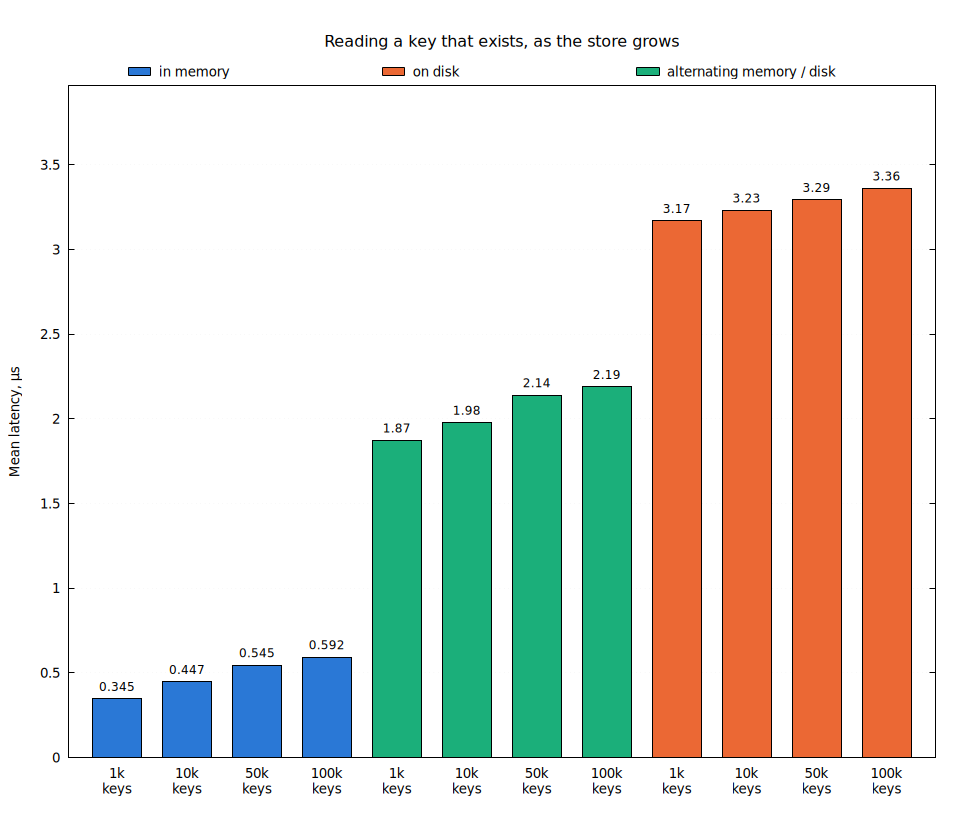
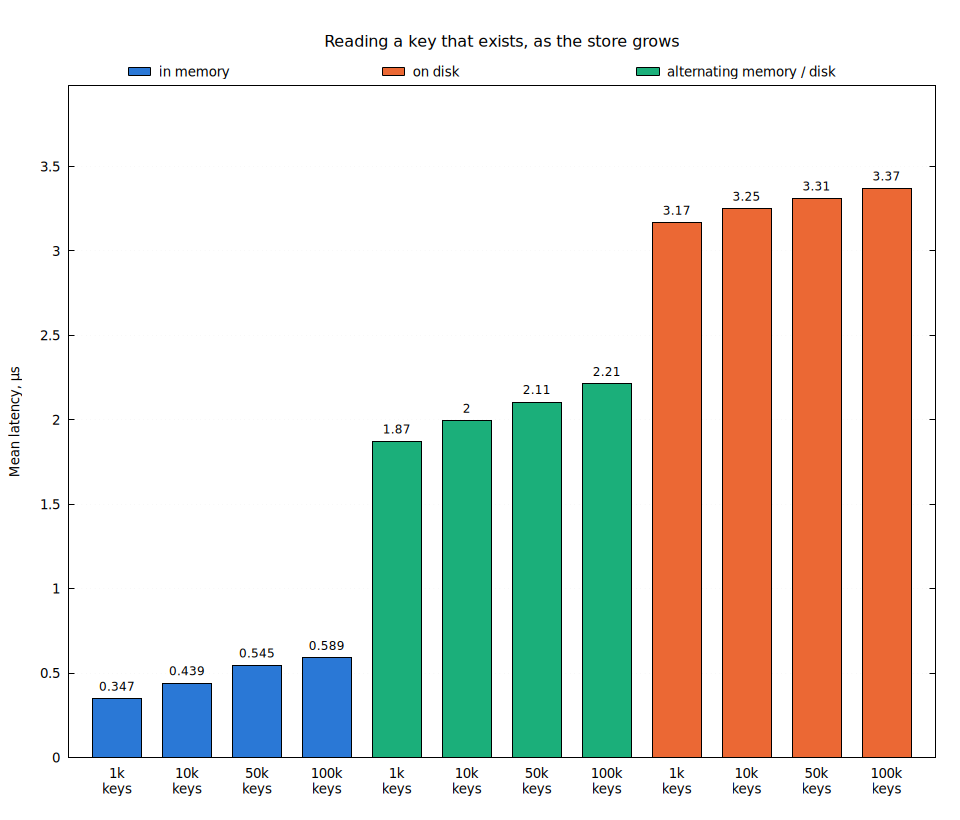
Re-measure the benchmark report on this branch
Full run_report.sh at 3bd0710 (2026-10-01), with the WAL suite re-run
after the append-bench fix. Every quoted figure and chart is updated.
No engine path regressed: writes are within 2.5% of main, reads, scans,
lookups and predicates within 6%, and a same-boot A/B against main shows
semantic search and typed range unchanged.

Also correct the selectivity example: status = 'active' AND active = true
matches 12% of rows (6% with age >= 50), as the bench cases are labelled,
not 25% / 12%.

diff --git a/minnal_db/benchmark.md b/minnal_db/benchmark.md
@@ -20,8 +20,8 @@ to other hardware much better than the raw microseconds do.
 | A semantic search over 5,000 documents | 1.3–3.7 ms, excluding the embedding call | [Semantic search](#semantic-search) |
 
 The one number that shapes everything else: **a write costs 2.3 ms because it
-waits for the disk to confirm the data is safe** (an fsync). The rest of the
-write path costs about 1.5 µs. That is a deliberate choice — a write that
+waits for the disk to confirm the data is safe** (an fsync). The WAL append
+itself, without the fsync, takes 0.4 µs. That is a deliberate choice — a write that
 returns has survived a power cut — and it caps the database at about 440 writes
 per second on this drive. Adding writer threads does not raise that ceiling,
 because writes fsync one at a time.
@@ -50,8 +50,8 @@ because writes fsync one at a time.
 | Machine | AMD Ryzen 9 9950X3D (16 cores), 96 GB RAM, NVMe SSD, bare metal |
 | OS | Ubuntu 26.04, Linux 7.0.0-34 |
 | Rust | 1.96.0 |
-| Code | commit `e5d15c9`; the typed and semantic-search suites re-run on 2026-09-27 |
-| Date | 2026-09-26 (typed and semantic search: 2026-09-27) |
+| Code | commit `3bd0710`; the WAL suite with `benches/bench_wal.rs` as committed alongside this report |
+| Date | 2026-10-01 |
 
 To reproduce everything, including the charts:
 
@@ -83,35 +83,36 @@ a write's cost is the drive's fsync time, and value size hardly matters:
 
 ![Durable write latency by value size](docs/benchmarks/write.png)
 
-A 64 KiB value is 512 times the data of a 128-byte one and costs 2.8% more
-(2.336 ms against 2.272 ms).
+A 64 KiB value is 512 times the data of a 128-byte one and costs 3.2% more
+(2.359 ms against 2.286 ms).
 
 The chart below shows what the fsync costs on its own. It times a single WAL
 append with and without the sync. Synced, an append takes 2.3 ms. Without the
-sync it takes 1.6 µs — the fsync is about 1,500 times everything else the
-append does. Only in the unsynced case does value size show up at all: 1.6 µs at
-128 bytes, 2.5 µs at 4 KiB, 10.3 µs at 64 KiB.
+sync it takes 0.39 µs — the fsync is about 6,000 times everything else the
+append does. Only in the unsynced case does value size show up at all: 0.39 µs
+at 128 bytes, 1.0 µs at 4 KiB, 7.8 µs at 64 KiB. Both cases append to a WAL
+file that already exists, as production does; creating the file is not timed.
 
 ![A WAL append with and without the fsync](docs/benchmarks/wal_fsync.png)
 
-*Log scale: the synced bars are about 1,000 times taller than the unsynced
+*Log scale: the synced bars are 300 to 6,000 times taller than the unsynced
 ones. Production writes always sync; the unsynced case exists only to measure
 the rest of the path.*
 
 Other write-path measurements:
 
-- **The full `put`** (WAL, value log and memtable together) measures 2.277 ms.
+- **The full `put`** (WAL, value log and memtable together) measures 2.292 ms.
   That is within noise of the WAL append alone, so the value-log write and
   memtable insert are too small to see next to the fsync.
 - **Namespaces cost nothing.** Writing to the default namespace and to a named
-  one both measure 2.29 ms.
+  one measure 2.27 and 2.30 ms, within noise.
 - **Mixed read/write workloads cost the same as pure writes.** With 80% or 50%
-  reads, from memory or from disk, every case lands between 2.26 and 2.31 ms per
+  reads, from memory or from disk, every case lands between 2.25 and 2.30 ms per
   operation. A read costs a few microseconds against a write's 2.3 ms, so the
   writes set the average.
-- **Encoding a WAL entry** takes 43 ns (128 B) to 0.97 µs (64 KiB), and decoding
+- **Encoding a WAL entry** takes 42 ns (128 B) to 1.1 µs (64 KiB), and decoding
   it 14 ns to 0.54 µs.
-- **Replaying the WAL after a crash** reads about 3.8 million small entries per
+- **Replaying the WAL after a crash** reads about 3.9 million small entries per
   second (1,000 entries of 128 bytes in 0.26 ms), and 2.7 million per second at
   4 KiB.
 
@@ -126,25 +127,25 @@ write latency:
 
 | Extra work `merge` does | Mean |
 |---|---:|
-| Reading the current value (a 2 KiB `get` from memory) | 435 ns |
-| Taking the per-key lock (hash plus uncontended lock) | 51 ns |
-| The closure: increment a counter | 9.7 ns |
-| The closure: insert into a 2 KiB sorted set | 170 ns |
+| Reading the current value (a 2 KiB `get` from memory) | 433 ns |
+| Taking the per-key lock (hash plus uncontended lock) | 48 ns |
+| The closure: increment a counter | 9.9 ns |
+| The closure: insert into a 2 KiB sorted set | 175 ns |
 
 That adds up to 0.5–0.7 µs, about 0.03% of the fsync. The full operations,
 measured directly, cannot tell merge and put apart:
 
 | Operation | Mean |
 |---|---:|
-| `put`, 2 KiB | 2.329 ms |
-| `delete`, 2 KiB | 2.311 ms |
-| `get` then `put` by hand, 2 KiB sorted set (no atomicity) | 2.284 ms |
-| `merge`, 2 KiB sorted set | 2.283 ms |
-| `put`, 8 B | 2.265 ms |
-| `merge`, 8 B counter | 2.264 ms |
+| `put`, 2 KiB | 2.323 ms |
+| `delete`, 2 KiB | 2.294 ms |
+| `get` then `put` by hand, 2 KiB sorted set (no atomicity) | 2.286 ms |
+| `merge`, 2 KiB sorted set | 2.307 ms |
+| `put`, 8 B | 2.308 ms |
+| `merge`, 8 B counter | 2.278 ms |
 
 In this table `merge` measures slightly *faster* than `put`, which cannot be
-real: a merge is a put plus extra work. That tells you the 3% spread between
+real: a merge is a put plus extra work. That tells you the 2% spread between
 these rows is noise, and it is why the extra work is timed separately above.
 The practical conclusion: the atomicity of `merge` is free. It stays as cheap as
 a `put` unless your closure does something expensive.
@@ -152,7 +153,7 @@ a `put` unless your closure does something expensive.
 ## Reads
 
 Reading a key from memory takes well under a microsecond. Reading the same key
-from disk adds about 2.8 µs: the check against the file's bloom filter, a
+from disk adds about 2.9 µs: the check against the file's bloom filter, a
 search of its index, and the read from the value log. That step is constant for
 small and medium values. At 64 KiB the value itself becomes big enough to add
 time on both tiers.
@@ -175,7 +176,7 @@ A read from disk barely slows as the store grows: 3.17 µs at 1,000 keys and
 3.36 µs at 100,000, 6% more for 100 times the keys. The on-disk lookup
 first rules files out by key range and bloom filter, then searches only a small
 bounded section of the file, so its work does not grow with file size. A read
-from memory rises 71% over the same range (0.35 to 0.59 µs), because the
+from memory rises 70% over the same range (0.35 to 0.59 µs), because the
 in-memory table is a skip list whose search deepens as it grows. Memory is
 still 6–9 times faster.
 
@@ -186,35 +187,35 @@ may cost cache locality.
 
 ![Reading a key that does not exist, as the store grows](docs/benchmarks/lookup_misses.png)
 
-For a missing key the order flips: **disk is 2.5 to 3 times faster than
+For a missing key the order flips: **disk is 2.5 to 3.2 times faster than
 memory**. On disk, a bloom filter usually proves a key is absent without reading
 anything else, so a miss stays at about 0.2 µs at any store size. The in-memory
 table has no such filter. To prove a key is absent it walks the skip list just as
 far as it would to find one. So an in-memory miss costs about what an in-memory
-hit does, and grows the same way (0.48 to 0.67 µs).
+hit does, and grows the same way (0.48 to 0.69 µs).
 
 ## Scans
 
 Four ways to read many keys at once, each measured in memory and on disk. On
-disk, a scan costs 1.1 to 1.6 times the in-memory scan. The ratio shrinks as
+disk, a scan costs 1.1 to 1.7 times the in-memory scan. The ratio shrinks as
 the result grows, because most of the on-disk extra is a fixed setup cost per
 scan.
 
 ![Prefix scan by number of matching keys](docs/benchmarks/scan_prefix.png)
 
 *Prefix scan: all keys starting with a given prefix, returned with their
-values. On disk costs 1.51x memory at 100 keys and 1.21x at 5,000. Keys are 128
-bytes here; 32-byte keys measure within 2% of these.*
+values. On disk costs 1.61x memory at 100 keys and 1.19x at 5,000. Keys are 128
+bytes here; 32-byte keys measure within 5% of these.*
 
 ![Range scan by number of results](docs/benchmarks/scan_range.png)
 
 *Range scan: all keys between a start and end key, from a store of 2,000. On
-disk costs 1.57x memory at 100 results and 1.31x at 1,000.*
+disk costs 1.66x memory at 100 results and 1.35x at 1,000.*
 
 ![Reading all keys with their values](docs/benchmarks/scan_iter.png)
 
-*Reading all 2,000 keys with their values. On disk costs 1.41x memory with
-128-byte values and 1.09x with 4 KiB values. The larger the values, the more of
+*Reading all 2,000 keys with their values. On disk costs 1.36x memory with
+128-byte values and 1.12x with 4 KiB values. The larger the values, the more of
 the time goes into reading them from the value log. That cost is the same on
 both tiers.*
 
@@ -224,7 +225,7 @@ both tiers.*
 256-byte values. This is how the REST API's list endpoints read.*
 
 Cursor pagination is the one scan where the tiers swap. At 100 keys per page,
-disk (75 µs) is almost twice as fast as memory (144 µs). At 500 per page they are level, and at
+disk (72 µs) is almost twice as fast as memory (143 µs). At 500 per page they are close (267 µs on disk, 242 µs in memory), and at
 1,000 (the whole store) disk is slower, as expected. We have not established why
 small pages favour disk.
 
@@ -242,32 +243,32 @@ it adds nothing measurable:
 
 | Operation | Raw bytes | Typed |
 |---|---:|---:|
-| `put`, 128 B | 2.272 ms | 2.296 ms |
-| `put`, 4 KiB | 2.293 ms | 2.326 ms |
-| `get` from memory, 128 B | 0.37 µs | 0.33 µs |
-| `get` from disk, 128 B | 3.22 µs | 3.11 µs |
-| `get` from disk, 4 KiB | 3.37 µs | 3.32 µs |
+| `put`, 128 B | 2.286 ms | 2.272 ms |
+| `put`, 4 KiB | 2.317 ms | 2.283 ms |
+| `get` from memory, 128 B | 0.37 µs | 0.32 µs |
+| `get` from disk, 128 B | 3.25 µs | 3.10 µs |
+| `get` from disk, 4 KiB | 3.42 µs | 3.39 µs |
 
-The typed reads come out slightly faster than the raw ones. That is within the
-noise for sub-microsecond cases, not a real speed-up.
+The typed rows come out slightly faster than the raw ones. That is within the
+noise, not a real speed-up.
 
 Scans cost more typed, because every returned pair is deserialised:
 
 | Scan | Raw bytes | Typed | Extra |
 |---|---:|---:|---:|
-| range, 100 results, in memory | 54 µs | 57 µs | +6% |
-| range, 1,000 results, in memory | 353 µs | 383 µs | +8% |
-| range, 100 results, on disk | 84 µs | 89 µs | +5% |
-| range, 1,000 results, on disk | 463 µs | 468 µs | +1% |
-| prefix, 100 keys, in memory | 49 µs | 57 µs | +15% |
-| prefix, 1,000 keys, in memory | 290 µs | 362 µs | +25% |
-| prefix, 100 keys, on disk | 74 µs | 85 µs | +15% |
-| prefix, 1,000 keys, on disk | 406 µs | 466 µs | +15% |
+| range, 100 results, in memory | 52 µs | 56 µs | +7% |
+| range, 1,000 results, in memory | 338 µs | 364 µs | +8% |
+| range, 100 results, on disk | 86 µs | 86 µs | 0% |
+| range, 1,000 results, on disk | 457 µs | 458 µs | 0% |
+| prefix, 100 keys, in memory | 47 µs | 55 µs | +15% |
+| prefix, 1,000 keys, in memory | 301 µs | 369 µs | +23% |
+| prefix, 100 keys, on disk | 76 µs | 85 µs | +11% |
+| prefix, 1,000 keys, on disk | 382 µs | 440 µs | +15% |
 
 One typed operation is slow for a structural reason. `keys_typed`, which lists
-keys without values, takes about 260 µs even for 100 keys, in memory or on disk.
+keys without values, takes about 250 µs even for 100 keys, in memory or on disk.
 That is about four and a half times as long as reading the same 100 keys *with*
-their values (57 µs). Key listing goes through the same full-store merge that value-log
+their values (56 µs). Key listing goes through the same full-store merge that value-log
 garbage collection uses. Reading with values uses the faster range scan. Until
 that changes, a range or prefix scan is the cheaper way to list keys.
 
@@ -291,20 +292,20 @@ The cost depends on **how many bitmaps the query has to load**, not on how many
 rows it matches:
 
 - **An equality test loads one bitmap.** `status = 'active'` takes 11 µs.
-  Combining two equality tests with AND or OR takes 33 µs.
+  Combining two equality tests with AND or OR takes 32–33 µs.
 - **A range loads one bitmap per distinct value in the range.** `age >= 50` covers
   31 ages, so it merges 31 bitmaps. `age >= 30 AND age <= 50` is evaluated as
   two ranges, one over 51 values and one over 33, and then intersected. At
   1.1 ms it is the most expensive query here, about 100 times an equality test.
 
 So adding a range to a query makes it slower even when it narrows the result:
-`status = 'active' AND active = true` matches 25% of rows in 33 µs, and adding
-`AND age >= 50` halves that to 12% but takes 465 µs. For a field queried by
+`status = 'active' AND active = true` matches 12% of rows in 32 µs, and adding
+`AND age >= 50` halves that to 6% but takes 459 µs. For a field queried by
 range, fewer distinct values (bucketing ages into decades, say) make the query
 cheaper.
 
 Parsing the query text is negligible. A three-condition query takes 730 µs
-parsed from text and 728 µs pre-parsed.
+parsed from text and 725 µs pre-parsed.
 
 ## Paging through query results
 
@@ -318,17 +319,17 @@ result of 200,000:
 
 | Page starts at row | Stepping through rows | Skipping containers (used) |
 |---|---:|---:|
-| 0 | 78 µs | 0.45 µs |
-| 1,000 | 77 µs | 0.81 µs |
-| 50,000 | 79 µs | 17.6 µs |
-| 199,000 | 243 µs | 0.35 µs |
+| 0 | 77 µs | 0.45 µs |
+| 1,000 | 78 µs | 0.82 µs |
+| 50,000 | 80 µs | 17.5 µs |
+| 199,000 | 242 µs | 0.35 µs |
 
 Container skipping still steps through the rows *inside* the container where the
 page starts. Row 50,000 is 50,000 rows into its container, which is why that page
 costs more than the others.
 
 Paging through a whole 20,000-row result, 200 rows at a time (100 pages), takes
-0.47 ms with container skipping and 2.47 ms by stepping through rows, which
+0.47 ms with container skipping and 2.46 ms by stepping through rows, which
 starts again from the first row on every page.
 
 ## Semantic search
@@ -356,14 +357,14 @@ How these numbers relate to a real query:
   everything measured here. Repeated queries are served from a cache.
 - **Multi-vector queries cost more.** `search()` also accepts several query
   vectors (production sends one). At one chunk per document, a 1-vector query
-  takes 1.25 ms, 4 vectors 1.9 ms and 40 vectors 3.3 ms.
+  takes 1.29 ms, 4 vectors 1.85 ms and 40 vectors 3.3 ms.
 - **Real data is clumpier.** Synthetic vectors spread evenly across clusters.
   Real embeddings pile into a few, and a query probing those clusters scans far
   more chunks. Latency on real data depends mostly on how many chunks the probed
   clusters hold. The architecture doc's *Where a query's time goes* covers this.
 
 The steps inside a search are small by comparison. Choosing the 64 nearest of
-256 clusters takes about 9 µs. Scoring 1,000 candidates takes 17 µs in Pass 1
+256 clusters takes about 9 µs. Scoring 1,000 candidates takes 16 µs in Pass 1
 and 16 µs in Pass 2, so the more precise pass costs no more per candidate.
 
 ---
@@ -375,13 +376,13 @@ single-writer throughput. This run agrees:
 
 | Operation | README ballpark | Measured here |
 |---|---|---|
-| Write, small values | 400–500 ops/s | 440 ops/s |
-| `merge`, small values | 400–500 ops/s | 442 ops/s |
+| Write, small values | 400–500 ops/s | 437 ops/s |
+| `merge`, small values | 400–500 ops/s | 439 ops/s |
 | Read from memory | 1M–2.5M ops/s | 2.7M ops/s (slightly above) |
-| Read from disk | 100k–300k ops/s | 311k ops/s (slightly above) |
+| Read from disk | 100k–300k ops/s | 308k ops/s (slightly above) |
 
 Two separate benchmarks measure a small-value read from disk, with different
-setups, and agree within 2% (311k and 316k reads per second).
+setups, and agree within 3% (308k and 316k reads per second).
 
 The write figure is the fsync limit, and no setting raises it: the WAL is
 always fsynced per write, and only the value log's sync cadence is configurable.
